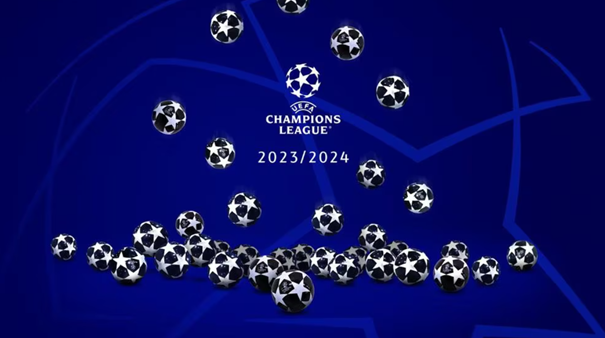
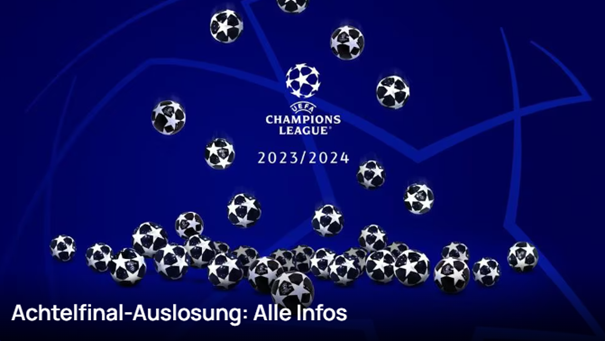
commit

diff --git a/Champions Leauge/Gruppen_script.js b/Champions Leauge/Gruppen_script.js
@@ -1,0 +1,107 @@
+function checkGroups() {
+
+    fetch('https://api.openligadb.de/getmatchdata/champion1/2023').then((response) =>
+        response.json().then((result) => {
+            fillGroups(result);
+        })
+    );
+}
+function fillGroups(data) {
+    console.log("data",data);
+        const element = document.getElementById("Gruppe");
+
+        let html = "";
+        data.forEach((Gruppe,index) => {
+            let postition = index + 1;
+            html += '<div class="h-[82vh] bg-contain w-full flex flex-wrap justify-center gap-10" id="Gruppe"><div class="relative mt-12"><div class="m-2 mb-2 bg-stone-200 z-10"><p class="font-bold">Gruppe A</p></div><div class="w-[15vw] h-[28vh] m-2 bg-stone-200 z-0 flex flex-col items-center justify-center"><div class="flex items-center justify-between bg-blue-500 m-2 h-12 mt-2 mb-0.5 w-[95%]"><p class="ml-2 mr-4">1</p>'
+            + postition +
+            '</p><a href="Teams.html"><img class="w-[3vh] h-[3vh] mx-2 mr-14" src="'
+            + Gruppe.teamIconUrl +
+            '</a><p class="mr-16">'
+            + Gruppe.teamName +
+            '</p><p class="mr-2">'
+            + Gruppe.points +
+            '</p></div>'
+
+
+            //zweiter platz
+
+            + '<div class="flex items-center justify-between bg-blue-500 m-2 h-12 mt-2 mb-0.5 w-[95%]"><p class="ml-2 mr-4">1</p>'
+            + postition +
+            '</p><a href="Teams.html"><img class="w-[3vh] h-[3vh] mx-2 mr-14" src="'
+            + Gruppe.teamIconUrl +
+            '</a><p class="mr-16">'
+            + Gruppe.teamName +
+            '</p><p class="mr-2">'
+            + Gruppe.points +
+            '</p></div>'
+
+
+            // dritter platz
+
+            +'<div class="flex items-center justify-between bg-blue-500 m-2 h-12 mt-2 mb-0.5 w-[95%]"><p class="ml-2 mr-4">1</p>'
+            + postition +
+            '</p><a href="Teams.html"><img class="w-[3vh] h-[3vh] mx-2 mr-14" src="'
+            + Gruppe.teamIconUrl +
+            '</a><p class="mr-16">'
+            + Gruppe.teamName +
+            '</p><p class="mr-2">'
+            + Gruppe.points +
+            '</p></div>'
+
+            // vierter platz
+
+            +'<div class="flex items-center justify-between bg-blue-500 m-2 h-12 mt-2 mb-0.5 w-[95%]"><p class="ml-2 mr-4">1</p>'
+            + postition +
+            '</p><a href="Teams.html"><img class="w-[3vh] h-[3vh] mx-2 mr-14" src="'
+            + Gruppe.teamIconUrl +
+            '</a><p class="mr-16">'
+            + Gruppe.teamName +
+            '</p><p class="mr-2">'
+            + Gruppe.points +
+            '</p></div></div></div>'
+    
+
+        });
+        document.getElementById("Gruppe").innerHTML = html;
+        console.log(html);
+
+    } 
+
+
+checkGroups();
+
+/*
+<div class="relative mt-12">
+            <div class="m-2 mb-2 bg-stone-200 z-10">
+                <p class="font-bold">Gruppe A</p>
+            </div>
+        
+            <div class="w-[15vw] h-[28vh] m-2 bg-stone-200 z-0 flex flex-col items-center justify-center">
+                <div class="flex items-center justify-between bg-blue-500 m-2 h-12 mt-2 mb-0.5 w-[95%]">
+                    <p class="ml-2 mr-4">1</p>
+                    <a href="Teams.html"><img class="w-[3vh] h-[3vh] mx-2 mr-14" src="images/Teamlogos/Bayern.png"></a>
+                    <p class="mr-16">Bayern</p>
+                    <p class="mr-2">12</p>
+                </div>
+                <div class="flex items-center justify-between bg-blue-500 m-2 h-12 mt-2 mb-0.5 w-[95%]">
+                    <p class="ml-2 mr-4">2</p>
+                    <a href="Teams.html"><img class="w-[3vh] h-[3vh] mx-2 mr-12" src="images/Teamlogos/Kopenhagen.png"></a>
+                    <p class="mr-10">Kopenhagen</p>
+                    <p class="mr-2">4</p>
+                </div>
+                <div class="flex items-center justify-between bg-blue-500 m-2 h-12 mt-2 mb-0.5 w-[95%]">
+                    <p class="ml-2 mr-4">3</p>
+                    <a href="Teams.html"><img class="w-[3vh] h-[3vh] mx-2 mr-10" src="images/Teamlogos/Gala.png"></a>
+                    <p class="mr-16">Galatasaray</p>
+                    <p class="mr-2">4</p>
+                </div>
+                <div class="flex items-center justify-between bg-blue-500 m-2 h-12 mt-2 mb-0.5 w-[95%]">
+                    <p class="ml-2 mr-4">4</p>
+                    <a href="Teams.html"><img class="w-[3vh] h-[3vh] mx-2 mr-10" src="images/Teamlogos/ManU.png"></a>
+                    <p class="mr-16">ManUnited</p>
+                    <p class="mr-2">3</p>
+                </div>
+            </div>
+        </div>
+*/

diff --git a/Champions Leauge/News.html b/Champions Leauge/News.html
@@ -1,15 +1,18 @@
 <!DOCTYPE html>
 <html lang="en">
+
 <head>
     <meta charset="UTF-8">
     <meta name="viewport" content="width=device-width, initial-scale=1.0">
     <title>Champions Leauge</title>
-    
+
     <script src="script.js" defer></script>
     <script src="https://cdn.tailwindcss.com"></script>
 </head>
-    <!-- Header -->
-<body class="bg-[url('https://assets-us-01.kc-usercontent.com/31dbcbc6-da4c-0033-328a-d7621d0fa726/5b1cca65-314d-441d-8577-5ec9da43627e/Apple%20TV%20-%20UEFA%20Champions%20League.png?w=3840&q=75')] min-w-fit object-contain">
+<!-- Header -->
+
+<body
+    class="bg-[url('https://assets-us-01.kc-usercontent.com/31dbcbc6-da4c-0033-328a-d7621d0fa726/5b1cca65-314d-441d-8577-5ec9da43627e/Apple%20TV%20-%20UEFA%20Champions%20League.png?w=3840&q=75')] min-w-fit object-contain">
     <div class="bg-stone-200 h-[9vh] flex items-center">
         <div><a href="Index.html"><img class="h-[7.5vh] w-[7.5vh] ml-4" src="images/logo.jpg" alt="Logo"></a></div>
         <p class="flex-1 text-center"><a href="News.html" class="transition hover:bg-stone-400">News</a></p>
@@ -19,12 +22,60 @@
     </div>
 
     <!-- Main -->
-    <div class="border-2 h-[82vh] bg-contain w-[100vw]">
-        
+    <div class=" h-[82vh] bg-contain w-[100vw]">
+        <div class="text-center font-bold text-xl mt-5 text-white">
+            UEFA Chanpions League, Achtelfinale, Auslosung: Wer,
+            wo, wann?
+        </div>
+        <div class="flex items-center mt-10">
+            <div class="ml-[5%]">
+                <img src="images/Achtelfinals.png">
+            </div>
+            <div class="bg-stone-200 ml-[8%]">
+                <p class="text-lg font-bold m-3">
+                    Welche Teams sind bei der Achtelfinal-Auslosung dabei?
+                </p>
+                <p class="mt-2 ml-3">
+                    An der Auslosung nehmen die 16 Teams teil, die aus der Gruppenphase der UEFA Champions
+                    League
+                    weiterkommen. Bereits qualifiziert:
+                </p>
+                <div class="ml-5">
+                    <p class="mt-3">Arsenal (ENG)*</p>
+                    <p>Atlético de Madrid (ESP)</p>
+                    <p>Barcelona (ESP)</p>
+                    <p>Bayern (GER)*</p>
+                    <p>Dortmund (GER)</p>
+                    <p>Inter (ITA)</p>
+                    <p>Lazio (ITA)</p>
+                    <p>Leipzig (GER)**</p>
+                    <p>Manchester City (ENG)*</p>
+                    <p>PSV Eindhoven (NED)**</p>
+                    <p>Real Madrid (ESP)*</p>
+                    <p>Real Sociedad (ESP)</p>
+                </div>
+                <div class="ml-3">
+                <p class="mt-3">*Bestätigt als Gruppensieger</p>
+                <p>**Bestätigt als Gruppenzweiter</p>
+                </div>
+                <p class="mt-7 text-lg font-bold ml-3">Wann finden die Spiele im Achtelfinale statt?</p>
+                <p class="mt-2 ml-3">Das Achtelfinale wird über vier Wochen ausgetragen:</p>
+                <div class="ml-3 mb-3">
+                <div class="flex mt-2">
+                    <p class="text-l font-bold">Hinspiele: </p>
+                    <p class="ml-1">13./14./20./21. Februar 2024</p>
+                </div>
+                <div class="flex mt-2">
+                    <p class="text-l font-bold">Rückspiele: </p>
+                    <p class="ml-1">5./6./12./13. März 2024</p>
+                </div>
+            </div>
+            </div>
+        </div>
     </div>
 
 
-     <!-- Footer -->
+    <!-- Footer -->
     <div class="bg-stone-200 h-[9vh] flex flex-col items-center justify-center">
         <div class="w-screen text-center">
             <p class="text-blue-600 m-1">Offizielle weltweite Sponsoren</p>
@@ -57,4 +108,5 @@
         </div>
     </div>
 </body>
+
 </html>

diff --git a/Champions Leauge/Team_script.js b/Champions Leauge/Team_script.js
@@ -5,37 +5,45 @@ function checkTeam() {
             fillTeam(result);
         })
     );
-    fetch('https://api.openligadb.de/getnextmatchbyleagueteam/4673/1201').then((response) =>
-        response.json().then((result) => {
-            fillTeam(result);
-        })
-    );
+
 }
 function fillTeam(data) {
-    console.log("data",data);
-        const element = document.getElementById("Teams");
+    console.log("data", data);
+    const element = document.getElementById("Teams");
 
-        let html1 = ' <div class="flex flex-col items-center bg-blue-500 m-2 h-[100%] mr-3 ml-5"><div class="flex items-center justify-between w-full mt-2"><div class="h-[3vh] w-[3vw] m-2">'
-            + Teams.team1.teamIconUrl + '</div><div class="text-xl"><p class="text-white font-bold">:</p></div><div class="h-[2.5vh] w-[2.5vw] m-2">'
-            + Teams.team2.teamIconUrl + '</div></div><div class="flex items-center justify-between w-full mt-10"><div class="text-center ml-[20%]"><p class="text-white align-text-bottom">'
-            + Teams.matchResults. + '</p></div><div class="text-center mr-[20%]"><p class="text-white align-text-bottom">'
-            + Teams.matchResults. + '</p></div></div></div>'
+    console.log("Hallo");
+    let html1 = '<div class="flex flex-col items-center bg-blue-500 m-2 h-[100%] mr-3 ml-5"><div class="flex items-center justify-between w-full mt-2"><div class="h-[3vh] w-[3vw] m-2">'
+        + Teams.team1.teamIconUrl + '</div><div class="text-xl"><p class="text-white font-bold">:</p></div><div class="h-[2.5vh] w-[2.5vw] m-2">'
+        + Teams.team2.teamIconUrl + '</div></div><div class="flex items-center justify-between w-full mt-10"><div class="text-center ml-[20%]"><p class="text-white align-text-bottom">'
+        + Teams.matchResults.pointsTeam1 + '</p></div><div class="text-center mr-[20%]"><p class="text-white align-text-bottom">'
+        + Teams.matchResults.pointsTeam2 + '</p></div></div></div>'
 
-        let html2 = '<div class="flex flex-col items-center bg-blue-500 m-2 h-[100%] mr-3 ml-5"><div class="flex items-center justify-between w-full mt-2"><div class="h-[3vh] w-[3vw] m-2">'
-            + Teams.team1.teamIconUrl + '</div><div class="text-xl"><p class="text-white font-bold">:</p></div><div class="h-[2.5vh] w-[2.5vw] m-2">'
-            + Teams.team2.teamIconUrl + '</div></div></div>'
-
-
-        document.getElementById("Teams").innerHTML = html1;
-        console.log(html1);
-
-        document.getElementById("Teams").innerHTML = html2;
-        console.log(html2);
-
-        // process your data further
-    } 
+    document.getElementById("Teams").innerHTML = html1;
+    console.log(html1);
+}
 
 
+
+/*
+fetch('https://api.openligadb.de/getnextmatchbyleagueteam/4673/1201').then((response) =>
+    response.json().then((result) => {
+        fillTeam(result);
+    })
+);
+function fillTeam(data) {
+    console.log("data", data);
+    const element = document.getElementById("Teams");
+    let html2 = '<div class="flex flex-col items-center bg-blue-500 m-2 h-[100%] mr-3 ml-5"><div class="flex items-center justify-between w-full mt-2"><div class="h-[3vh] w-[3vw] m-2">'
+        + Teams.team1.teamIconUrl + '</div><div class="text-xl"><p class="text-white font-bold">:</p></div><div class="h-[2.5vh] w-[2.5vw] m-2">'
+        + Teams.team2.teamIconUrl + '</div></div></div>'
+
+
+
+
+    document.getElementById("Teams").innerHTML = html2;
+    console.log(html2);
+}
+*/
 checkTeam();
 
 

diff --git a/Champions Leauge/Teams.html b/Champions Leauge/Teams.html
@@ -6,7 +6,7 @@
     <meta name="viewport" content="width=device-width, initial-scale=1.0">
     <title>Champions Leauge</title>
 
-    <script src="script.js" defer></script>
+    <script src="Team_script.js" defer></script>
     <script src="https://cdn.tailwindcss.com"></script>
 </head>
 <!-- Header -->
@@ -22,7 +22,7 @@
     </div>
 
     <!-- Main -->
-    <div class="flex items-center h-[82vh] bg-contain w-[100vw] relative"id="Teams">
+    <div class="flex items-center h-[82vh] bg-contain w-[100vw] relative" id="Teams">
         <div class="relative">
             <div class="text-white ml-[25.5vw] mb-5 font-bold">
                 <p>FC Salzburg</p>

diff --git a/Champions Leauge/Index.html b/Champions Leauge/Index.html
@@ -25,7 +25,7 @@
     
     <div class=" h-[82vh] bg-contain w-[100vw] flex flex-col">
         <div class="flex justify-end items-center h-screen w-full">
-            <div class="flex mr-[15%] border-2 transition-transform transform hover:scale-105"><a href="News.html"><img src="images/Achtelfinals.png"></a></div>
+            <div class=" flex mr-[20%] border-2 transition-transform transform hover:scale-105"><a href="News.html"><img src="images/Achtelfinals.png"></a></div>
             <div class="flex flex-col items-center justify-center bg-stone-200 h-[60%] w-[30%] mr-10">
                 <p class="text-black">
                     kommende Spiele

diff --git a/Champions Leauge/Gruppen.html b/Champions Leauge/Gruppen.html
@@ -6,7 +6,7 @@
     <meta name="viewport" content="width=device-width, initial-scale=1.0">
     <title>Champions Leauge</title>
 
-    <script src="script.js" defer></script>
+    <script src="Gruppen_script.js" defer></script>
     <script src="https://cdn.tailwindcss.com"></script>
 </head>
 
@@ -24,7 +24,7 @@
     
 
     <!-- Main -->
-    <div class="h-[82vh] bg-contain w-full flex flex-wrap justify-center gap-10">
+    <div class="h-[82vh] bg-contain w-full flex flex-wrap justify-center gap-10" id="Gruppe">
 
 
         <!-- Gruppe A -->
